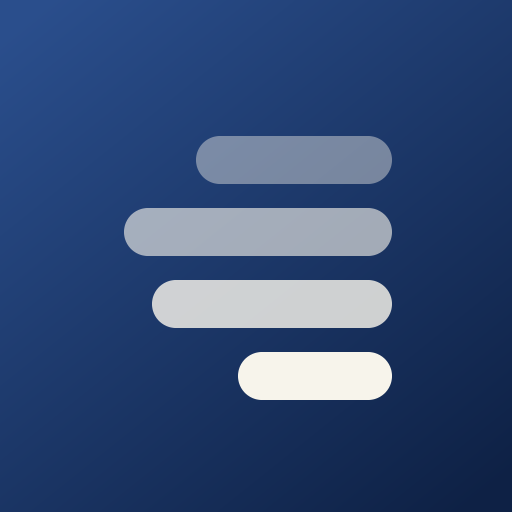
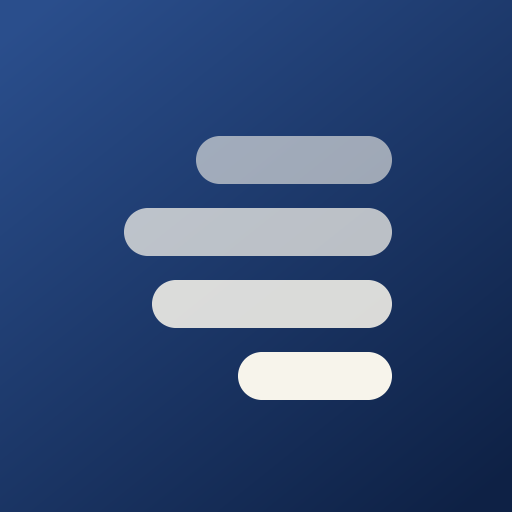
סבב 73: אייקונים — המחולל הוא מקור האמת, ושקיפויות הפסים הוגברו
⛔ שקיפויות ארבעת הפסים 0.42/0.62/0.82/1 ⟵ 0.60/0.73/0.87/1.0.
⚠ נמדד: הפרש הבהירות של הפס העליון מהרקע היה 72 גוונים ובאייקון 48px
לא נראה; אחרי ההגברה 107.
⛔ כל 16 הנכסים נוצרו מחדש, וההרצה השנייה אינה משנה דבר.
⛔ versionCode 17 · versionName 17.0, וטבלת הגרסאות עודכנה.

Changed region(s): [[0.375, 0.25, 0.7812, 0.375], [0.5625, 0.4062, 0.7188, 0.5]]

diff --git a/android/README.md b/android/README.md
@@ -16,7 +16,7 @@ native bridge.
 |---|---|
 | **Package ID** | `com.yoman.avoda` — זהה למעטפת שהוא מחליף (חובה, אחרת זו אפליקציה נפרדת) |
 | **טוען** | `https://ygtotlrl-lab.github.io/yoman-avoda/` — **מהרשת**, לא מנכסים מוטבעים |
-| **versionCode** | 16 — קודם בסבב 71 (כל נכסי האייקון נוצרו מחדש ע"י `tools/gen-icons.mjs`, שהוא מעכשיו מקור האמת היחיד להם). 15 — קודם בסבב 71 (חמשת קובצי `ic_launcher_foreground` נגזרו מחדש לצלע תוכן 48/72/96/144/192 בדיוק, בהכפלה מוקדמת באלפא). 14 — קודם בסבב 68 (היסטוריית הגרסאות ירדה מהערות `build.gradle` — מקור אמת שני; ⛔ הטבלה הזו היא ההיסטוריה). 13 — קודם בסבב 67 (חמשת קובצי `ic_launcher_foreground` הוחלפו — תיקון צבעי הפסים). 12 — קודם בסבב 66 (רקע האייקון הוחלף במדרג שמשחזר את שוליי `ic_launcher`, ועשרת קובצי ה-mipmap הוחלפו). 10 — קודם בסבב 65 (מחיקת `copy-assets.sh` ותיקיית `assets/`, שאפס קוראים נמדדו להם). 9 = סבב 60 (הסרת הפרמטר `appPackage` מחתימת גשר השיתוף, בשני צדדיו: ה-Java וה-`index.html`). 8 = סבב 59 (הסרת מסלול ה-`setPackage` מהשיתוף: כל שיתוף עובר ב-`Intent.createChooser`, וגם הדגל `FLAG_ACTIVITY_NEW_TASK` ירד מבורר השיתוף). 7 = סבבים 57–58 (הסרת `FLAG_ACTIVITY_NEW_TASK` ממסלול השיתוף וממסירת יעד חיצוני ל-`ACTION_VIEW`). 6 = סבב 56 (עשרת אייקוני ה-mipmap של המעטפת הוחלפו). 5 = סבב 46ב (היפוך ברירת המחדל בקובצי התצורה), 4 = סבב 45, 3 = סבב 41 (חילוץ המעטפת), 2 = המעטפת שטוענת מהרשת, 1 = זו שטענה `file://`; חייב להיות גבוה יותר כדי להתקין מעליה |
+| **versionCode** | 17 — קודם בסבב 73 (שקיפויות ארבעת הפסים הוגברו ל-0.60/0.73/0.87/1.0, וכל 16 נכסי האייקון נוצרו מחדש; ⛔ המחולל הוא מקור האמת היחיד ואין עריכה ידנית). 16 — קודם בסבב 71 (כל נכסי האייקון נוצרו מחדש ע"י `tools/gen-icons.mjs`, שהוא מעכשיו מקור האמת היחיד להם). 15 — קודם בסבב 71 (חמשת קובצי `ic_launcher_foreground` נגזרו מחדש לצלע תוכן 48/72/96/144/192 בדיוק, בהכפלה מוקדמת באלפא). 14 — קודם בסבב 68 (היסטוריית הגרסאות ירדה מהערות `build.gradle` — מקור אמת שני; ⛔ הטבלה הזו היא ההיסטוריה). 13 — קודם בסבב 67 (חמשת קובצי `ic_launcher_foreground` הוחלפו — תיקון צבעי הפסים). 12 — קודם בסבב 66 (רקע האייקון הוחלף במדרג שמשחזר את שוליי `ic_launcher`, ועשרת קובצי ה-mipmap הוחלפו). 10 — קודם בסבב 65 (מחיקת `copy-assets.sh` ותיקיית `assets/`, שאפס קוראים נמדדו להם). 9 = סבב 60 (הסרת הפרמטר `appPackage` מחתימת גשר השיתוף, בשני צדדיו: ה-Java וה-`index.html`). 8 = סבב 59 (הסרת מסלול ה-`setPackage` מהשיתוף: כל שיתוף עובר ב-`Intent.createChooser`, וגם הדגל `FLAG_ACTIVITY_NEW_TASK` ירד מבורר השיתוף). 7 = סבבים 57–58 (הסרת `FLAG_ACTIVITY_NEW_TASK` ממסלול השיתוף וממסירת יעד חיצוני ל-`ACTION_VIEW`). 6 = סבב 56 (עשרת אייקוני ה-mipmap של המעטפת הוחלפו). 5 = סבב 46ב (היפוך ברירת המחדל בקובצי התצורה), 4 = סבב 45, 3 = סבב 41 (חילוץ המעטפת), 2 = המעטפת שטוענת מהרשת, 1 = זו שטענה `file://`; חייב להיות גבוה יותר כדי להתקין מעליה |
 | **minSdk / targetSdk** | 21 / 34 |
 | **WebView** | JavaScript, DOM storage (localStorage — שם יושבים ENTRIES/ARCHIVE), DB. **בלי** גישת `file://` ובלי mixed content פתוח — האתר הוא https בלבד |
 | **ניווט** | כל `http`/`https` **נשאר בתוך המעטפת**. שאר הסכימות (`tel:`, `whatsapp:`, …) נמסרות למערכת |
